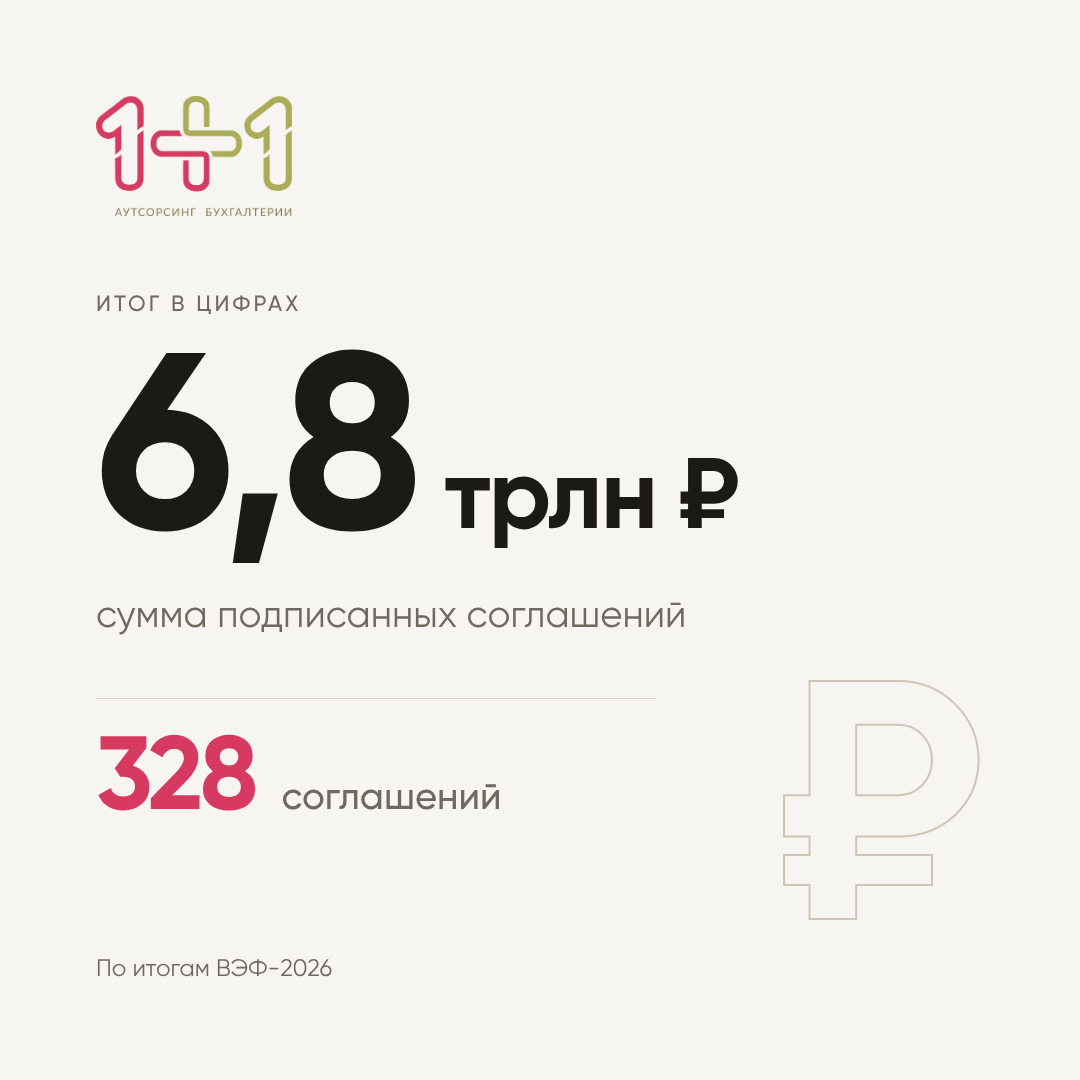
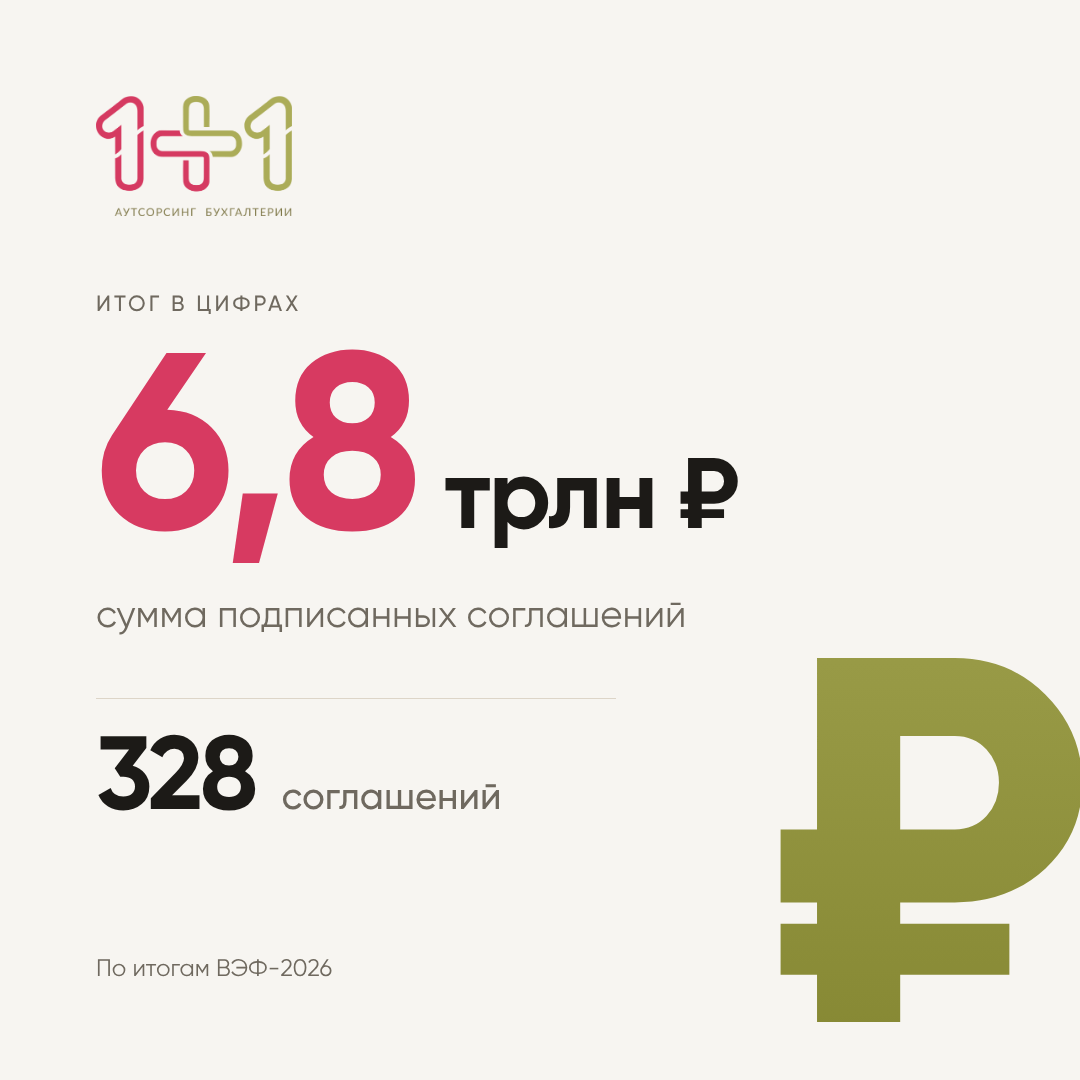
Rework layouts: darker shade for readable pink subtitle, crimson date plate on green, colour on digits layout
Claude-Session: https://claude.ai/code/session_01VZ7Hrkur6jxoGp5f6QSiLJ

Changed region(s): [[0.7028, 0.6111, 1.0, 0.9472], [0.0917, 0.3056, 0.3972, 0.5194], [0.0917, 0.6722, 0.2444, 0.7639]]

diff --git a/specimens/digits.html b/specimens/digits.html
@@ -2,17 +2,17 @@
 <link rel="stylesheet" href="base.css">
 <style>
 .canvas{background:var(--paper)}
-.ruble{position:absolute;right:96px;bottom:84px;font-weight:700;font-size:340px;line-height:1;
-  color:transparent;-webkit-text-stroke:2px #CFC5B4}
+.ruble{position:absolute;right:-10px;bottom:-60px;font-weight:800;font-size:520px;line-height:1;
+  background:linear-gradient(180deg,#9A9C48 0%,#82842F 100%);-webkit-background-clip:text;background-clip:text;color:transparent}
 .logo{width:196px}
 .text{position:absolute;left:96px;top:292px;right:96px}
 .label{font-weight:500;font-size:22px;letter-spacing:.14em;color:var(--stone);text-transform:uppercase;margin-bottom:34px}
 .hero{display:flex;align-items:baseline;gap:30px;color:var(--graphite);white-space:nowrap}
-.hero .n{font-weight:700;font-size:250px;line-height:.86;letter-spacing:-.035em}
+.hero .n{font-weight:700;font-size:250px;line-height:.86;letter-spacing:-.035em;color:var(--crimson)}
 .hero .u{font-weight:700;font-size:100px;line-height:1;letter-spacing:-.02em}
 .cap{margin-top:26px;font-weight:400;font-size:38px;line-height:1.25;color:var(--stone)}
-.second{margin-top:56px;padding-top:36px;border-top:1.5px solid var(--sand);display:flex;align-items:baseline;gap:26px;width:560px}
-.second .n{font-weight:700;font-size:104px;line-height:.9;letter-spacing:-.03em;color:var(--crimson)}
+.second{margin-top:56px;padding-top:36px;border-top:1.5px solid var(--sand);display:flex;align-items:baseline;gap:26px;width:520px}
+.second .n{font-weight:700;font-size:104px;line-height:.9;letter-spacing:-.03em;color:var(--graphite)}
 .second .u{font-weight:500;font-size:38px;color:var(--stone)}
 .foot{position:absolute;left:96px;bottom:96px;font-weight:400;font-size:24px;color:var(--stone)}
 </style></head><body>

diff --git a/specimens/tax.html b/specimens/tax.html
@@ -3,13 +3,13 @@
 <style>
 .canvas{background:url(img/tax-bg.jpg) center/cover}
 .shade{position:absolute;inset:0;background:linear-gradient(to bottom,rgba(28,26,23,.40) 0,rgba(28,26,23,0) 55%)}
-.shade2{position:absolute;inset:0;background:linear-gradient(to right,rgba(28,26,23,.46) 0,rgba(28,26,23,.30) 45%,rgba(28,26,23,0) 78%);
-  -webkit-mask-image:linear-gradient(to bottom,#000 0,#000 52%,transparent 66%);mask-image:linear-gradient(to bottom,#000 0,#000 52%,transparent 66%)}
+.shade2{position:absolute;inset:0;background:linear-gradient(to right,rgba(18,16,14,.78) 0,rgba(18,16,14,.64) 42%,rgba(20,18,16,0) 82%);
+  -webkit-mask-image:linear-gradient(to bottom,#000 0,#000 56%,transparent 70%);mask-image:linear-gradient(to bottom,#000 0,#000 56%,transparent 70%)}
 .logo{width:204px}
 .text{position:absolute;left:96px;top:258px;color:#fff}
 h1{font-weight:600;font-size:112px;line-height:1.02;letter-spacing:-.015em}
-.sub{margin-top:28px;font-weight:600;font-size:50px;line-height:1.22;letter-spacing:-.005em}
-.sub{color:#F2597D}
+.sub{margin-top:28px;font-weight:600;font-size:52px;line-height:1.22;letter-spacing:-.005em}
+.sub{color:#FF6D91}
 </style></head><body>
 <div class="canvas">
   <div class="shade"></div><div class="shade2"></div>

diff --git a/specimens/law-olive.html b/specimens/law-olive.html
@@ -10,10 +10,10 @@
 .logo{width:210px}
 .text{position:absolute;left:96px;right:60px;bottom:96px;color:#fff}
 .label{font-weight:500;font-size:24px;letter-spacing:.14em;color:rgba(255,255,255,.86);text-transform:uppercase;margin-bottom:38px;display:flex;align-items:center;gap:22px}
-.label i{display:block;width:64px;height:3px;background:rgba(255,255,255,.86)}
+.label i{display:block;width:64px;height:3px;background:var(--crimson)}
 h1{font-weight:700;font-size:146px;line-height:.96;letter-spacing:-.035em;margin-left:-6px}
-.date{margin-top:44px;font-weight:500;font-size:56px;letter-spacing:-.005em;color:rgba(255,255,255,.72)}
-.date b{font-weight:600;color:#fff}
+.date{margin-top:44px;display:flex;align-items:center;gap:20px;font-weight:500;font-size:54px;letter-spacing:-.005em;color:rgba(255,255,255,.8)}
+.date b{font-weight:600;color:#fff;background:var(--crimson);padding:10px 26px 14px;border-radius:14px}
 </style></head><body>
 <div class="canvas">
   <div class="pattern"></div>

diff --git a/specimens/README.md b/specimens/README.md
@@ -6,7 +6,7 @@
 
 | Файл | Рецепт | Герой |
 |---|---|---|
-| `tax.png` | R1 Вопрос на фото | фото `concrete-0259` с продлённой стеной |
+| `tax.png` | R1 Вопрос на фото | фото `concrete-0259` с продлённой стеной; подзаголовок целиком розовый, под ним локальное затемнение (контраст 3,2:1) |
 | `law.png` | R4 Новость на графите | заголовок на `pattern-2` |
-| `digits.png` | R2 Цифра | число 6,8 |
-| `law-olive.png` | R4, оливковый | заголовок 146 px на фирменном зелёном (градиент `#9A9C48`→`#82842F`), без второго цвета |
+| `digits.png` | R2 Цифра | число 6,8 малиновым, знак ₽ залит зелёным |
+| `law-olive.png` | R4, оливковый | заголовок 146 px на фирменном зелёном (градиент `#9A9C48`→`#82842F`), малиновая плашка с датой как единственный акцент |
